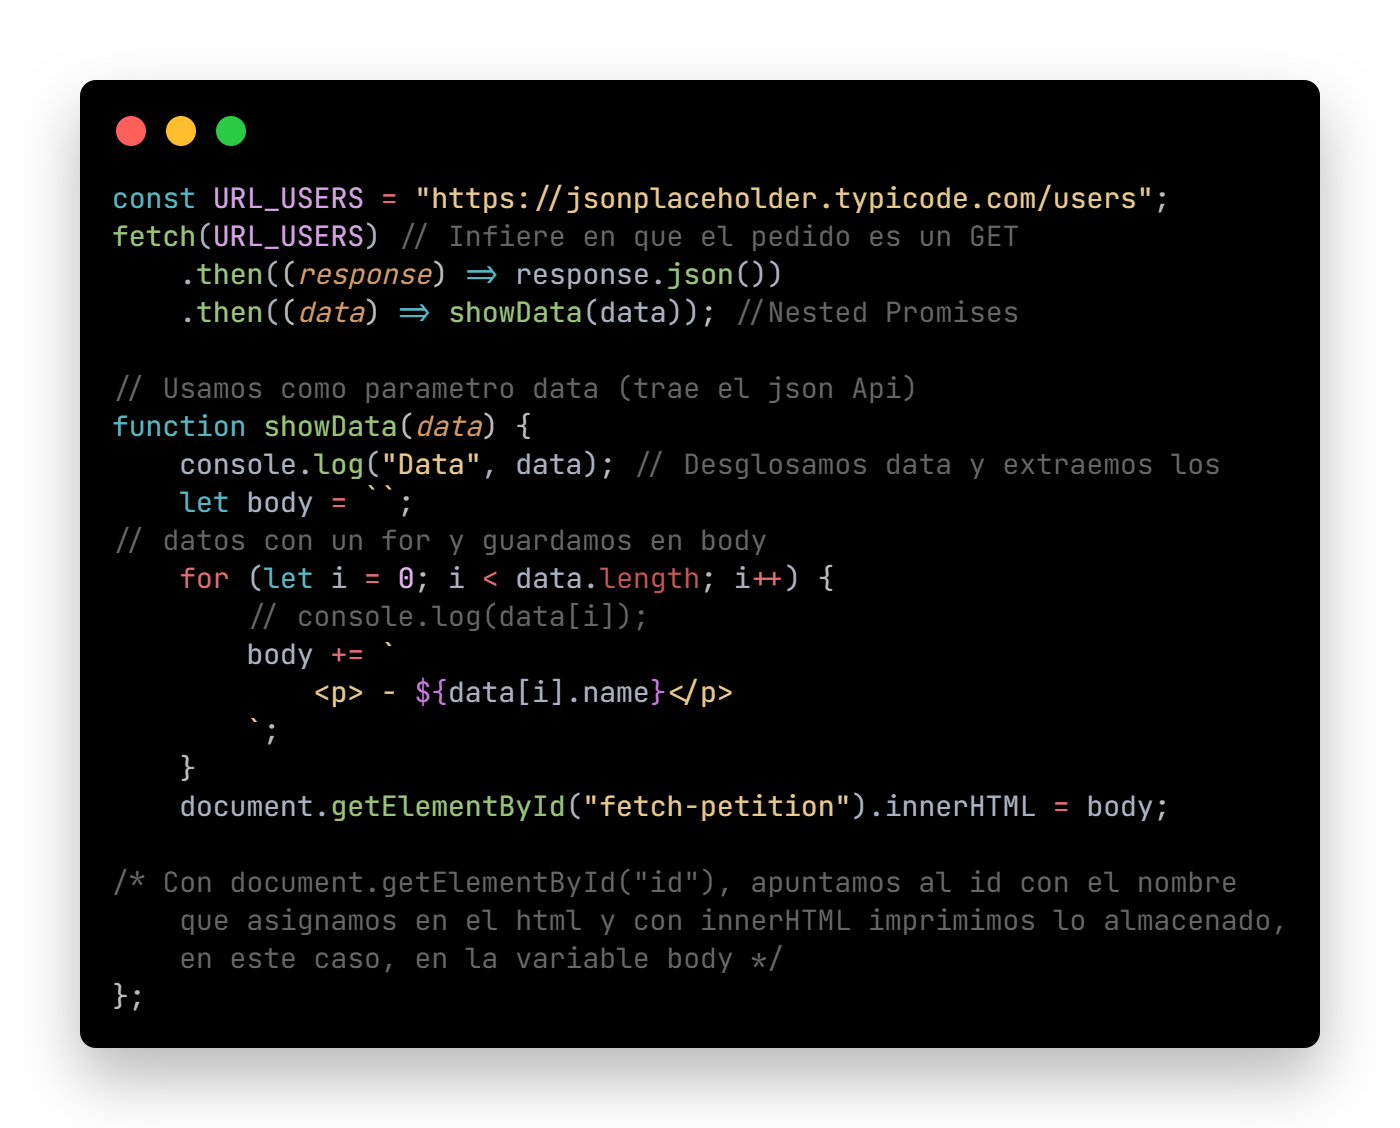
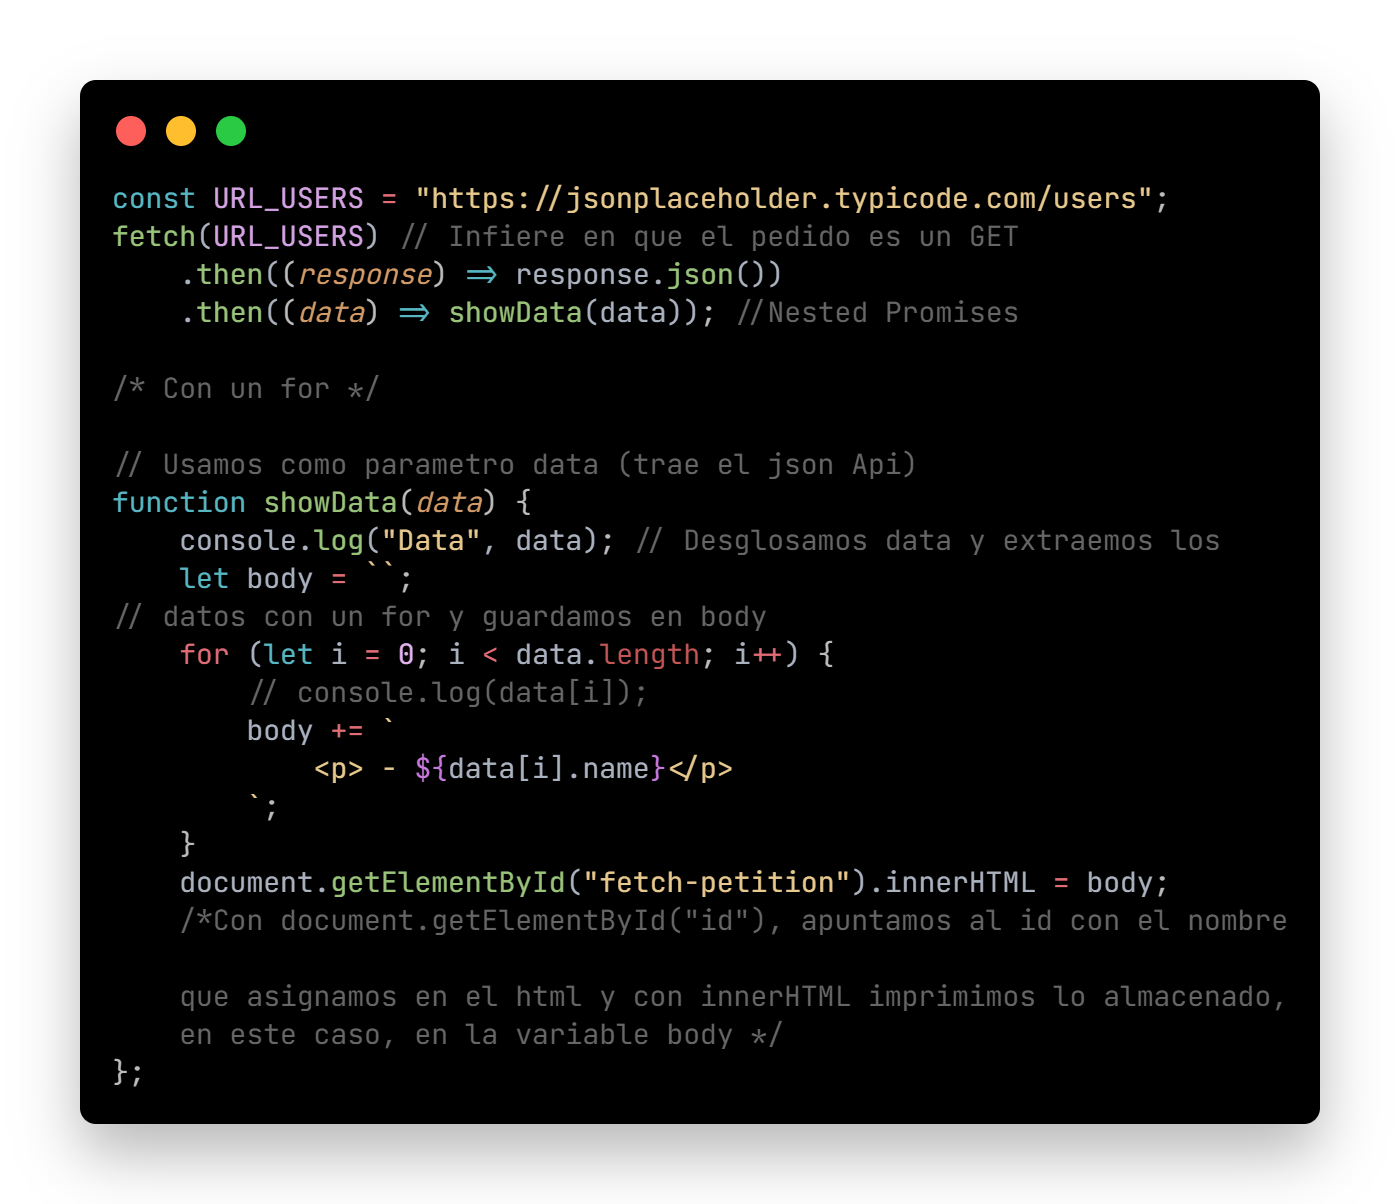
:sparkles: Add: example code lines

Changed region(s): [[0.0614, 0.1551, 0.86, 0.6516], [0.1229, 0.6826, 0.9214, 0.8688], [0.0614, 0.0621, 0.9521, 0.1241]]

diff --git a/clase10_asinchronism_fetch_js/index.html b/clase10_asinchronism_fetch_js/index.html
@@ -34,20 +34,24 @@
       <h3 class="title-topics" id="filter">Fetch</h3>
       <ul class="ul-topics">
         <li>
-          <span><a href="https://www.w3schools.com/jsref/api_fetch.asp" class="link-definition" target="_blank">Fetch</a> ofrece una definición genérica de los objetos <a href="https://developer.mozilla.org/es/docs/Web/API/Request" class="link-definition" target="_blank">Request</a> y <a href="https://developer.mozilla.org/es/docs/Web/API/Response" class="link-definition" target="_blank">Response</a> ( y otras cosas relacionadas con las solicitudes de red ). Esto permitirá su uso donde sea necesario en un futuro, ya sea para operadores de servicios, API caché y otras cosas similares que manipulen o modifiquen las solicitudes y respuestas, o cualquier otro tipo de caso de uso que pudiera requerirle la generación de sus propias respuestas mediante programación.</span>
+          <span><a href="https://www.w3schools.com/jsref/api_fetch.asp" class="link-definition" target="_blank">Fetch</a> ofrece una definición genérica de los objetos <a href="https://developer.mozilla.org/es/docs/Web/API/Request" class="link-definition" target="_blank">Request</a> y <a href="https://developer.mozilla.org/es/docs/Web/API/Response" class="link-definition" target="_blank">Response</a> ( y otras cosas relacionadas con las solicitudes de red ). Esto permitirá su uso donde sea necesario en un futuro, ya sea para operadores de servicios, API caché y otras cosas similares que manipulen o modifiquen las solicitudes y respuestas, o cualquier otro tipo de caso de uso que pudiera requerirle la generación de sus propias respuestas mediante programación. <br> <br> 
+          
+          Veremos 3 formas distintas de lograr un mismo resultado</span>
 
           <p class="text-img"> * Ver código funcional en archivo ./js/fetch.js</p>
 
           <img class="fx-img-code" src="./img/codeFetch_700.png" alt="Imágen de código">         
+          <img class="fx-img-code" src="./img/codeFetchMap_700.png" alt="Imágen de código">         
+          <img class="fx-img-code" src="./img/codeFetchMapArrowDestr_700.png" alt="Imágen de código">         
         </li>     
       </ul>
       <ul class="ul-topics">
         <li>
-          <span>Aquí abajo, se muestra el <a href="https://www.w3schools.com/js/js_htmldom.asp" class="link-definition" target="_blank">DOM</a> real, impreso con <a href="https://www.w3schools.com/jsref/prop_html_innerhtml.asp" class="link-definition" target="_blank">innertHTML</a> del ejercicio ejemplificado en el punto anterior, y se le aplica estilo con css</span>
+          <span>Aquí abajo, se muestra el <a href="https://www.w3schools.com/js/js_htmldom.asp" class="link-definition" target="_blank">DOM</a> real, impreso con <a href="https://www.w3schools.com/jsref/prop_html_innerhtml.asp" class="link-definition" target="_blank">innertHTML</a> que es el mismo resultado con cualquiera de las 3 opciones arriba detalladas y se le aplica estilo con css</span>
 
           <div class="namesInnertHTML">
             <p id="fetch-petition"></p>     
-          </div>          
+          </div>       
         </li>
       </ul>
     </section>
@@ -59,50 +63,57 @@
       <div class="nav-img-link">
         <img class="nav-img" src="../a_img_general/logo-git.png" alt="">
         <a class="nav-link" href="../clase04_git_github/index.html">
-          Clase <span>04</span> - git y github
+          <span>Clase 04</span> - git y github
         </a>
       </div>
       <div class="nav-img-link">
         <img class="nav-img" src="../a_img_general/logo_js.png" alt="Logo JavaScript">
         <a class="nav-link" href="../clase05_intro_js/index.html">
-          Clase <span>05</span> - Intro JS
+          <span>Clase 05</span> - Intro JS
         </a>
       </div>
       <div class="nav-img-link">
         <img class="nav-img" src="../a_img_general/logo_js.png" alt="Logo JavaScript">
         <a class="nav-link" href="../clase06-methods_js/index.html">
-          Clase <span>06</span> - Métodos JS
+          <span>Clase 06</span> - Métodos JS
         </a>
       </div>
       <div class="nav-img-link">
         <img class="nav-img" src="../a_img_general/logo_js.png" alt="Logo JavaScript">
         <a class="nav-link" href="../clase07_methods_js/index.html">
-          Clase <span>07</span> - Ejercicio grupal JS
+          <span>Clase 07</span> - Ejercicio grupal
         </a>
       </div>
       <div class="nav-img-link">
         <img class="nav-img" src="../a_img_general/logo_js.png" alt="Logo JavaScript">
         <a class="nav-link" href="../clase08_fx__met_&_asinchronism_js/index.html">
-          Clase <span>08</span> - Funciones y Métodos JS
+          <span>Clase 08</span> - Fx y Métodos
         </a>
       </div>
       <div class="nav-img-link">
         <img class="nav-img" src="../a_img_general/logo_js.png" alt="Logo JavaScript">
         <a class="nav-link" href="../clase09_fx_&_metodos2_js/index.html">
-          Clase <span>09</span> - Funciones y Métodos 2 JS
+          <span>Clase 09</span> - Fx y Métodos II
         </a>
       </div>
       <div id class="nav-img-link">
         <img class="nav-img" src="../a_img_general/logo_react.png" alt="Logo JavaScript">
         <a class="nav-link select" href="../clase10_asinchronism_fetch_js/">
-          Clase <span>10</span> - Intro Asincronismo - Fetch
+          <span>Clase 10</span> - Asincronismo - Fetch
         </a>
-      </div>      
+      </div>
+      <div id class="nav-img-link">
+        <img class="nav-img" src="../a_img_general/logo_react.png" alt="Logo JavaScript">
+        <a class="nav-link" href="../clase11_asinchronism__js/index.html">
+          <span>Clase 11</span> - Asincronismo
+        </a>
+      </div>
     </div>
   </nav>
-  <footer>
 
+  <footer>
   </footer>
+  
   <script src="./js/fetch.js"></script>
 </body>
 </html>

diff --git a/clase10_asinchronism_fetch_js/js/fetch.js b/clase10_asinchronism_fetch_js/js/fetch.js
@@ -6,11 +6,12 @@ console.log("Fetch");
 // Promise
 
 /* ************************************************************* */
-
 const URL_USERS = "https://jsonplaceholder.typicode.com/users";
 fetch(URL_USERS) // Infiere en que el pedido es un GET
     .then((response) => response.json())
     .then((data) => showData(data)); //Nested Promises
+
+// Con un for
 
 // Usamos como parametro data (trae el json Api)
 function showData(data) {
@@ -23,8 +24,29 @@ function showData(data) {
         `;
     }
     document.getElementById("fetch-petition").innerHTML = body;
-    /* Con document.getElementById("id"), apuntamos al id con el nombre
-    que asignamos en el html y con innerHTML imprimimos lo almacenado,
-    en este caso, en la variable body */
+    //Con document.getElementById("id"), apuntamos al id con el nombre
+    //que asignamos en el html y con innerHTML imprimimos lo almacenado,
+    //en este caso, en la variable body
 };
 
+/* *************************************************************** */
+
+/* Con map */
+
+/* const url_users = "https://jsonplaceholder.typicode.com/users";
+fetch(url_users) // Infiere en que el pedido es un GET
+    .then((response) => response.json())
+    .then((data) => showdata(data)); //Nested promises
+
+// paint the data in the dom with "map" and arrow function format
+const showdata = (data) => {
+    console.log("data", data);
+    let body = ``;
+    data.map((user) => {
+        return (body += `
+                <p> - username: ${user.name}</p>
+            `);
+    });
+    document.getElementById("fetch-petition").innerhtml = body;
+};
+ */

diff --git a/clase10_asinchronism_fetch_js/css/index.css b/clase10_asinchronism_fetch_js/css/index.css
@@ -212,4 +212,7 @@ footer {
 }
 .namesInnertHTML #fetch-petition {
   font-size: 0.9em;
+}
+.namesInnertHTML #fetch-petition2 {
+  font-size: 0.9em;
 }/*# sourceMappingURL=index.css.map */

diff --git a/clase10_asinchronism_fetch_js/css/index.scss b/clase10_asinchronism_fetch_js/css/index.scss
@@ -21,4 +21,7 @@
   #fetch-petition {
     font-size: .9em;
   }
+  #fetch-petition2 {
+    font-size: 0.9em;
+  }
 }
